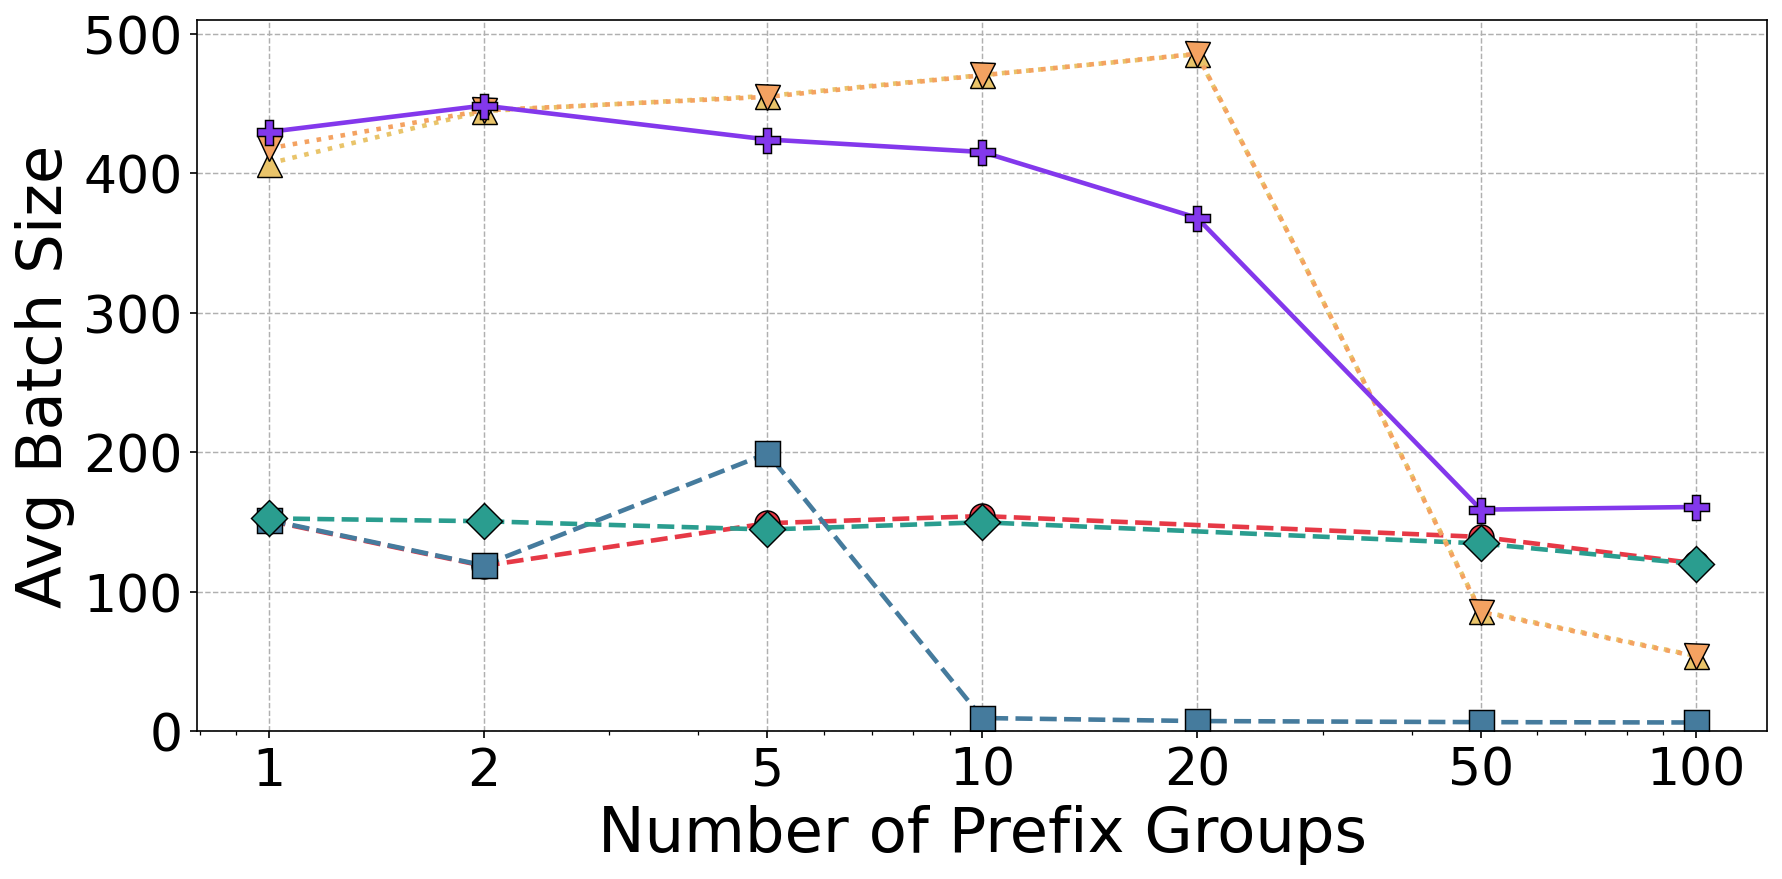
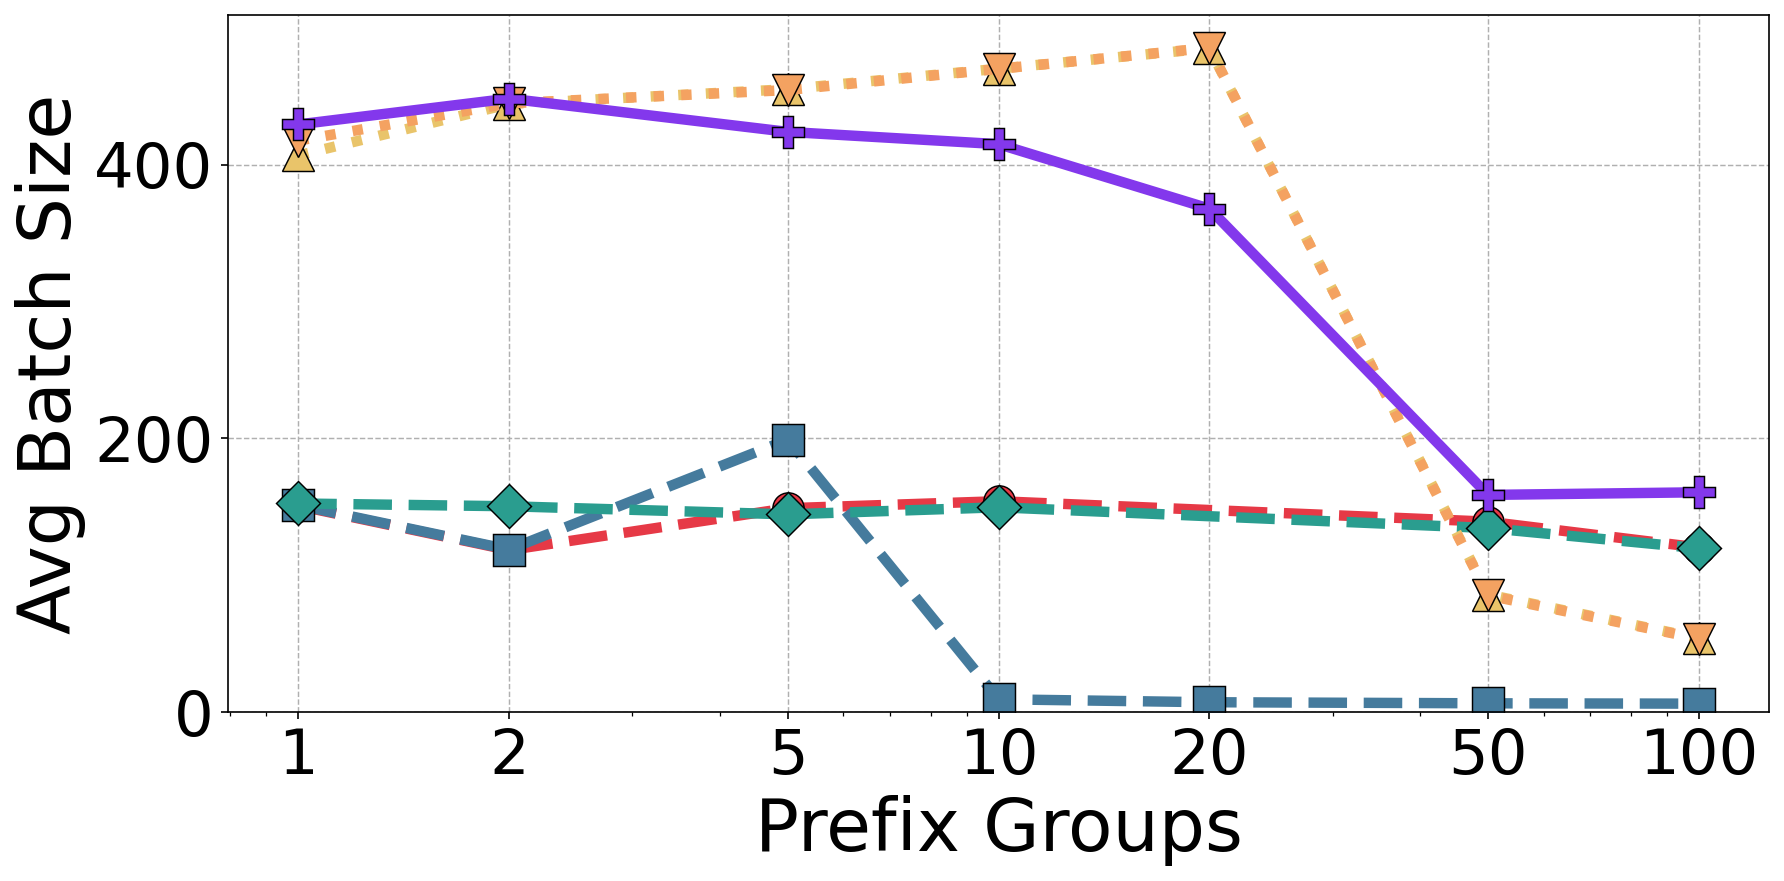
prefix groups

diff --git a/code/vllm/families_logs/plot.py b/code/vllm/families_logs/plot.py
@@ -181,8 +181,8 @@ def make_plot(metric_key, ylabel, title, outpath):
                 ys,
                 marker=marker,
                 linestyle=linestyle,
-                linewidth=2.2,
-                markersize=12,
+                linewidth=5,
+                markersize=15,
                 markeredgecolor="black",
                 markeredgewidth=0.7,
                 color=color,
@@ -193,13 +193,14 @@ def make_plot(metric_key, ylabel, title, outpath):
     ax.set_xticks(all_fams)
     ax.get_xaxis().set_major_formatter(ticker.ScalarFormatter())
 
-    ax.set_xlabel("Number of Prefix Groups", fontsize=30)
-    ax.set_ylabel(ylabel, fontsize=30)
-
-    ax.tick_params(axis="both", labelsize=25)
+    ax.set_xlabel("Prefix Groups", fontsize=35)
+    ax.set_ylabel(ylabel, fontsize=35)
+    # y axis convert 1000 to 1K
+    ax.yaxis.set_major_formatter(ticker.FuncFormatter(lambda x, _: f"{x/1000:.0f}K" if x >= 1000 else f"{x:.0f}"))
+    ax.tick_params(axis="both", labelsize=30)
 
     if metric_key == "throughput":
-        ax.legend(fontsize=18, framealpha=0.3, ncol=2)
+        ax.legend(fontsize=22, framealpha=0.1, ncol=2, columnspacing=0.1, bbox_to_anchor=(0.7, 0.7), loc="upper center")
 
     ax.grid(True, linewidth=0.7, linestyle="--")
     ax.set_ylim(bottom=0)
@@ -223,7 +224,7 @@ os.makedirs(OUT, exist_ok=True)
 
 make_plot(
     "throughput",
-    "Throughput (toks/s)",
+    "TP (toks/s)",
     "Throughput vs Prefix Groups",
     os.path.join(OUT, "throughput_vs_fam.png")
 )
